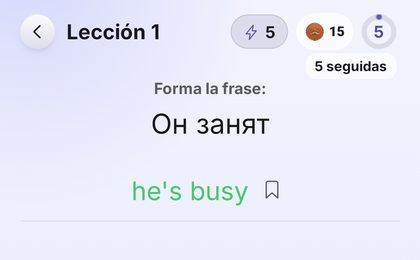
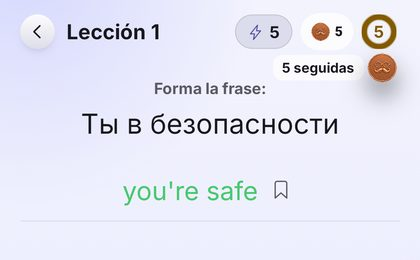
docs(parity+report): m08 после 9f3e21564 (Сверка c5f97564a) — нагрев кольца на 3/5 виден, монета на 5 справа от «5 seguidas» по отклонению; осталась форма индикатора (решение 2е); в отчёте «2е» — текст и миниатюра по новому кадру
Гейт реестра 12/12.

diff --git a/docs/design/v2-app/morning-report-2026-10-18.html b/docs/design/v2-app/morning-report-2026-10-18.html
@@ -394,7 +394,7 @@ ul.risk { margin: 0; padding-left: 20px; } ul.risk li { margin: 6px 0; } ul.risk
         <img src="previews/home-es-video-rail.jpg" alt="Главная на испанском: плитки Lecciones, Diálogos, Tarjetas и лента Vídeos с русскими обложками" loading="lazy" style="width:100%;max-width:420px;border-radius:14px;margin-top:10px;display:block">
         <div class="opts"><span class="rec">(а) Прятать, пока нет роликов на языке интерфейса</span><span>(б) Показывать русские ролики, как сейчас</span></div></div>
       <div class="card" id="combo-ring"><h3>2е. Серия правильных ответов в уроке: кольцо с числом или нагревающаяся полоса, как в эталоне</h3>
-        <p>В эталоне серия видна полосой прогресса, которая «нагревается» с каждым правильным ответом. В приложении — прежнее кольцо с числом и подпись «N подряд» под ним. Кольцо уже работает и проверено в настоящем уроке; на 3 и 5 подряд у него пока не виден нагрев — это Моменты чинят сейчас.</p>
+        <p>В эталоне серия видна полосой прогресса, которая «нагревается» с каждым правильным ответом. В приложении — прежнее кольцо с числом и подпись «N подряд» под ним. Кольцо уже работает и проверено в настоящем уроке; оно «нагревается»: на 3 подряд заливается цветом темы, на 5 — янтарным, рядом выглядывает монета.</p>
         <div class="pk2"><figure><img src="previews/m08-combo-etalon.jpg" alt="Эталон: полоса прогресса нагревается, «5 подряд»" loading="lazy"><figcaption>Эталон — полоса</figcaption></figure><figure><img src="previews/m08-combo-app.jpg" alt="Приложение: кольцо «5» и «5 seguidas»" loading="lazy"><figcaption>Сейчас — кольцо</figcaption></figure></div>
         <div class="opts"><span class="rec">(а) Кольцо в этом выпуске, полоса — следующим обновлением</span><span>(б) Полоса, как в эталоне, уже сейчас</span></div></div>
       <div class="card"><h3>3. Главная: какой ряд из 4 плиток (R108)</h3>

diff --git a/docs/work/tasks/morning-report-2026-10-18.md b/docs/work/tasks/morning-report-2026-10-18.md
@@ -180,3 +180,8 @@ Scope: docs/design/v2-app/morning-report-2026-10-18.html. Security and privacy: 
 Governance-ID: TG-C354C120C178
 Outcome: строка про заготовку звука уточнена (координатор 03:53): 64 кбит/с уже готов — загрузка ≈134 МБ, запас ≈66 МБ, пустых записей 0; 96 кбит/с — около 04:15, цифру пришлют. Образцы «Послушать» не меняются.
 Scope: docs/design/v2-app/morning-report-2026-10-18.html. Security and privacy: нет данных пользователей. Technical debt: нет. Verification: 390 px; повторный прогон plain_words = 0. Rollback: git revert. Architecture: plain_words.cjs.
+
+## «2е»: нагрев кольца уже виден — текст и миниатюра
+Governance-ID: TG-C354C120C178
+Outcome: в решении «2е» снята фраза «нагрев пока не виден — Моменты чинят»; миниатюра приложения заменена кадром Сверки m08_hold/r2_c5_3 (янтарное кольцо «5» и выглянувшая монета). В реестре m08-a: нагрев снят из отличий, осталась форма индикатора (решение 2е).
+Scope: morning-report-2026-10-18.html, previews/m08-combo-app.jpg, visual_parity.json (m08-a). Security and privacy: без данных пользователей. Technical debt: удар на 10 не снят — доснять. Verification: гейт реестра 12/12; 390 px. Rollback: git revert. Architecture: plain_words.cjs + обрезка кадра.
